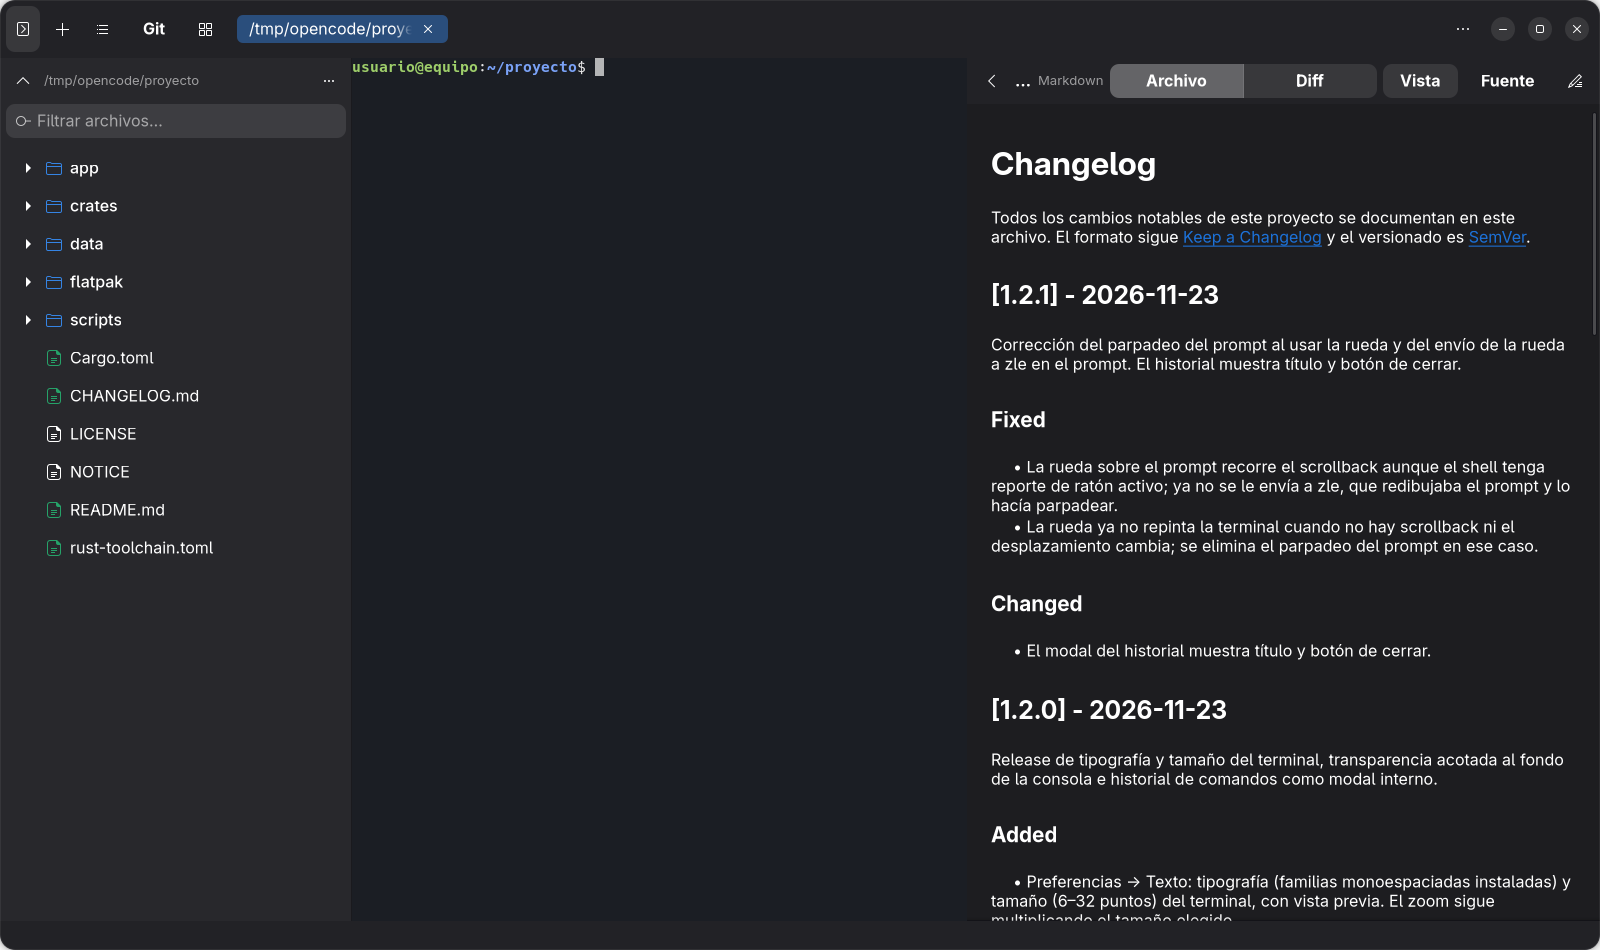
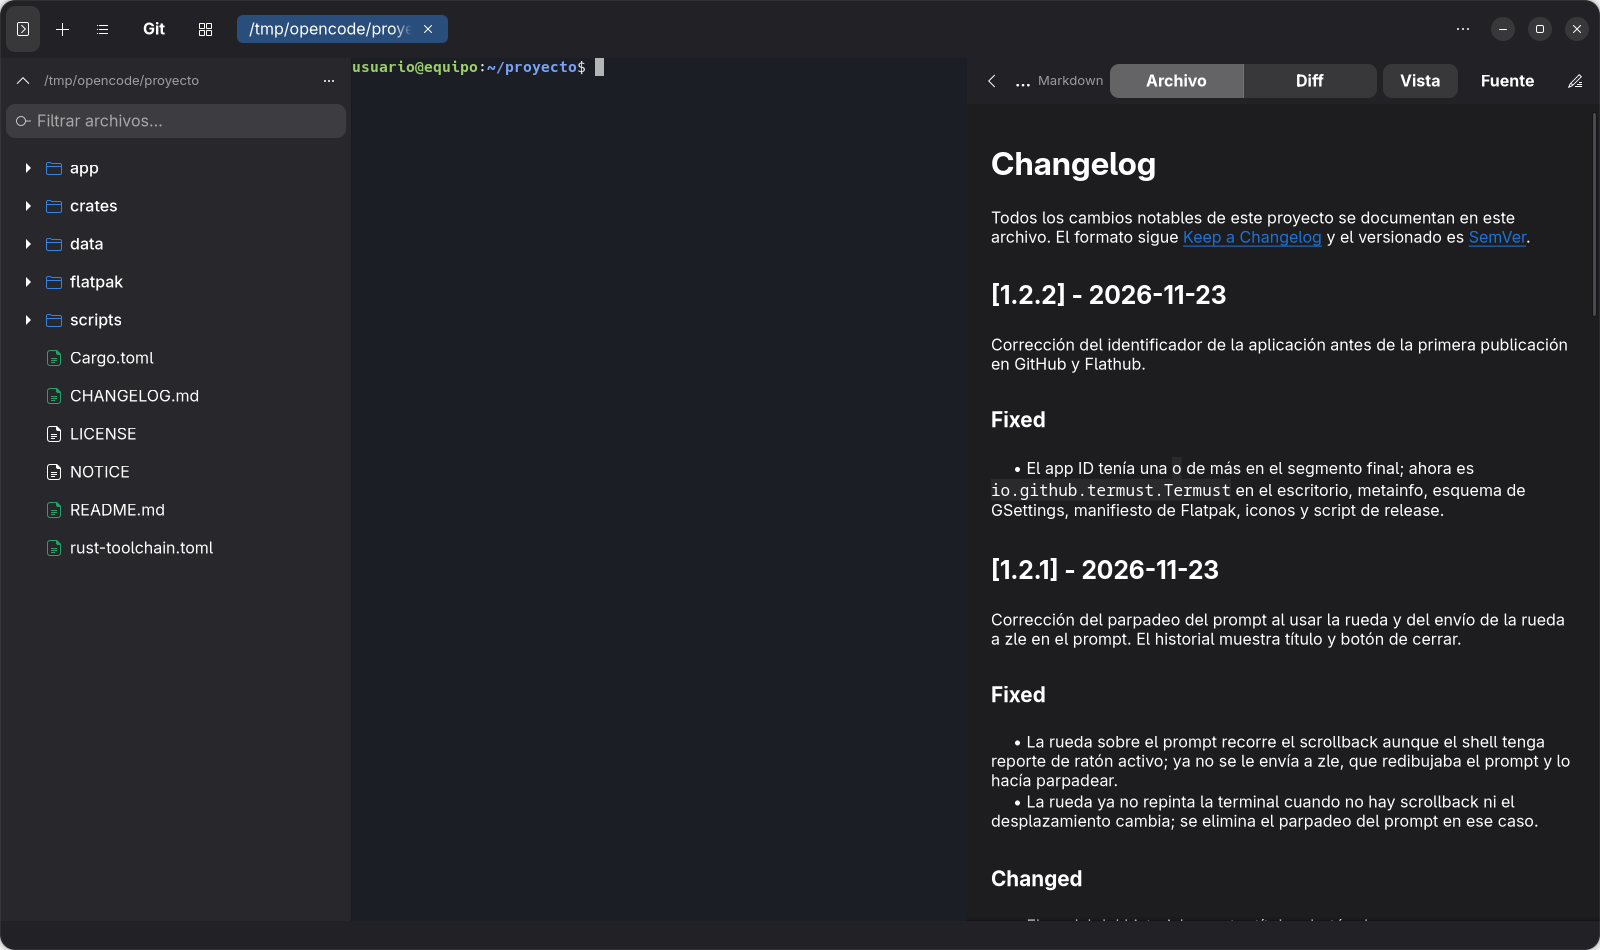
docs: describe the app ID fix without repeating the typo
Keep the changelog and the README screenshot free of the misspelled ID.

Changed region(s): [[0.625, 0.4884, 0.9688, 0.8853], [0.625, 0.2747, 1.0, 0.3968], [0.625, 0.9158, 0.9688, 0.9768]]

diff --git a/CHANGELOG.md b/CHANGELOG.md
@@ -11,9 +11,9 @@ en GitHub y Flathub.
 
 ### Fixed
 
-- El app ID pasa de `io.github.termust.Termost` a `io.github.termust.Termust`
-  (el segmento final tenía una `o` de más) en el escritorio, metainfo, esquema
-  de GSettings, manifiesto de Flatpak, iconos y script de release.
+- El app ID tenía una `o` de más en el segmento final; ahora es
+  `io.github.termust.Termust` en el escritorio, metainfo, esquema de GSettings,
+  manifiesto de Flatpak, iconos y script de release.
 
 ## [1.2.1] - 2026-11-23
 
